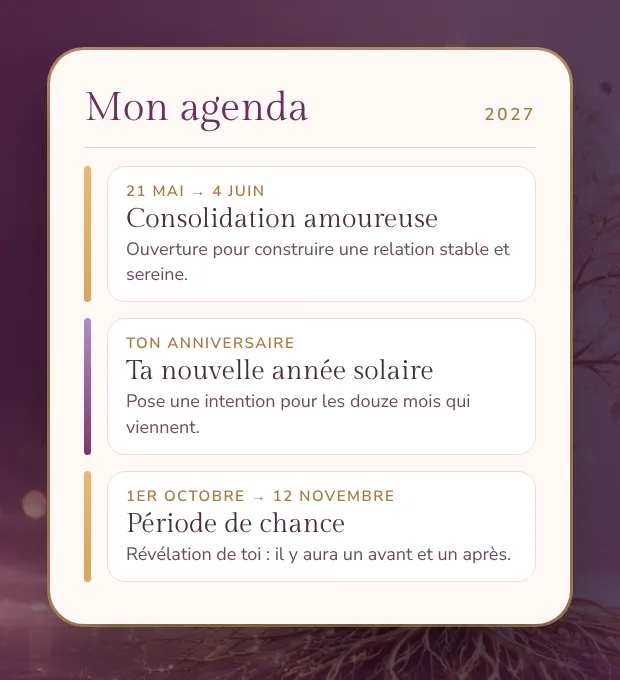
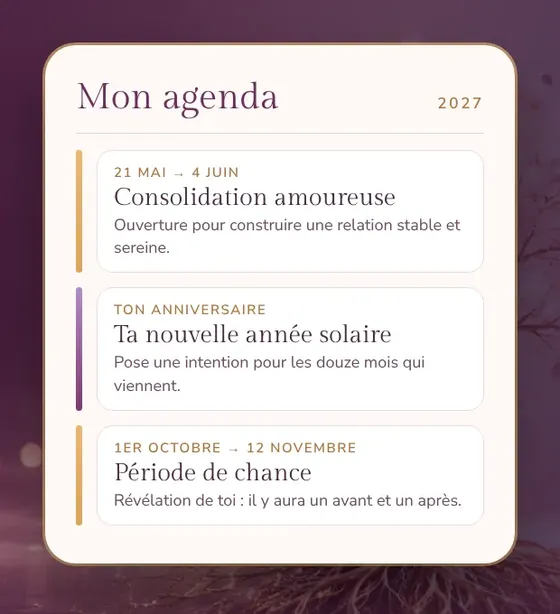
Pousse l'optimisation : recompresse laura-photo et dates-cles-agenda, précharge les polices du hero pour réduire le décalage visuel (CLS)

Changed region(s): [[0.5768, 0.5261, 0.6071, 0.557]]

diff --git a/index.html b/index.html
@@ -20,6 +20,9 @@
   <meta name="twitter:card" content="summary_large_image">
   <meta name="twitter:image" content="https://genesolia.fr/assets/partage/genesolia-accueil.jpg">
   <link rel="canonical" href="https://genesolia.fr/">
+  <link rel="preload" href="assets/polices/gilda-display-latin-400-normal.woff2" as="font" type="font/woff2" crossorigin>
+  <link rel="preload" href="assets/polices/nunito-sans-latin-400-normal.woff2" as="font" type="font/woff2" crossorigin>
+  <link rel="preload" href="assets/polices/nunito-sans-latin-600-normal.woff2" as="font" type="font/woff2" crossorigin>
   <link rel="stylesheet" href="assets/site.css?v=noel4">
   <style>
     /* ACCUEIL */
@@ -341,7 +344,7 @@
 
     <section class="aimant dk-bande" aria-label="Tes dates clés offertes">
       <div class="conteneur dk-b">
-        <img src="assets/images/dates-cles-agenda.webp" width="620" height="680" alt="Un agenda avec trois dates clés de l’année et leurs phrases" loading="lazy">
+        <img src="assets/images/dates-cles-agenda.webp" width="560" height="614" alt="Un agenda avec trois dates clés de l’année et leurs phrases" loading="lazy">
         <div>
           <p class="dk-sur">Offert · ton année</p>
           <h2>Tes dates clés 2027</h2>

diff --git a/theme-astral.html b/theme-astral.html
@@ -145,7 +145,7 @@
     <section class="bloc a-res" id="resultat" hidden aria-live="polite"></section>
     <section class="bloc dk-encart-bloc" aria-label="Tes dates clés offertes">
       <div class="conteneur"><div class="dk-encart">
-        <img src="assets/images/dates-cles-agenda.webp" width="620" height="680" alt="Un agenda avec trois dates clés de l’année et leurs phrases" loading="lazy">
+        <img src="assets/images/dates-cles-agenda.webp" width="560" height="614" alt="Un agenda avec trois dates clés de l’année et leurs phrases" loading="lazy">
         <div><p class="dk-encart-sur">Offert · ton année</p><h2>Et maintenant : tes dates clés 2027</h2><p>Ton thème ne change pas, mais le ciel bouge autour de lui. Découvre quand Jupiter, Saturne et les autres planètes activent ta carte, avec une phrase clé pour chaque période, à mettre dans ton agenda.</p>
         <button class="btn btn-plein" type="button" data-dates-cles>Recevoir mes dates clés</button></div>
       </div></div>

diff --git a/theme-numerologique.html b/theme-numerologique.html
@@ -253,7 +253,7 @@
     <section class="bloc n-res" id="resultat" hidden aria-live="polite"></section>
     <section class="bloc dk-encart-bloc" aria-label="Tes dates clés offertes">
       <div class="conteneur"><div class="dk-encart">
-        <img src="assets/images/dates-cles-agenda.webp" width="620" height="680" alt="Un agenda avec trois dates clés de l’année et leurs phrases" loading="lazy">
+        <img src="assets/images/dates-cles-agenda.webp" width="560" height="614" alt="Un agenda avec trois dates clés de l’année et leurs phrases" loading="lazy">
         <div><p class="dk-encart-sur">Offert · ton année</p><h2>Et maintenant : tes dates clés 2027</h2><p>Ton année personnelle, plus les grandes périodes de ton ciel : tes dates clés de l’année, calculées pour toi, chacune avec sa phrase clé, à mettre dans ton agenda.</p>
         <button class="btn btn-plein" type="button" data-dates-cles>Recevoir mes dates clés</button></div>
       </div></div>

diff --git a/offert.html b/offert.html
@@ -114,7 +114,7 @@
     </section>
     <section class="bloc dk-encart-bloc" aria-label="Tes dates clés offertes">
       <div class="conteneur"><div class="dk-encart">
-        <img src="assets/images/dates-cles-agenda.webp" width="620" height="680" alt="Un agenda avec trois dates clés de l’année et leurs phrases" loading="lazy">
+        <img src="assets/images/dates-cles-agenda.webp" width="560" height="614" alt="Un agenda avec trois dates clés de l’année et leurs phrases" loading="lazy">
         <div><p class="dk-encart-sur">Nouveau · offert</p><h2>Tes dates clés 2027</h2><p>Tes périodes de l’année, calculées pour toi à partir de ta date de naissance, chacune avec sa phrase clé. Directement dans ton agenda, et dans ta boîte mail.</p>
         <button class="btn btn-plein" type="button" data-dates-cles>Recevoir mes dates clés</button></div>
       </div></div>
